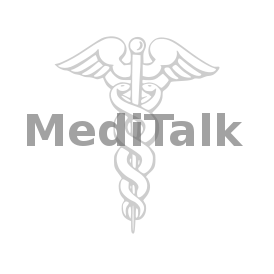
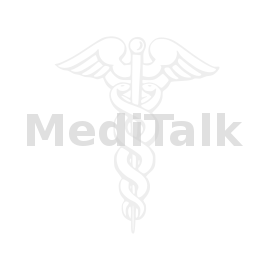
Updating header image for production demo output.
- New post layout set up to only allow for a certain number of characters.
- Border removed from images (FF and IE update)
- Header and background updated for production output.
- Deleted old files.

diff --git a/Code/Static/Styles/bar_styles.css b/Code/Static/Styles/bar_styles.css
@@ -33,10 +33,6 @@ div#navMenu {
 	overflow: hidden;
 }
 
-div#homeButton {
-	
-}
-
 p#navTitle {
 	margin: 1px 0px 0px 0px;
 }
@@ -70,6 +66,10 @@ p#uname {
 	text-align: center;
 	font-weight: bold;
 	width: 65%;
+}
+
+img {
+	border: 0px;
 }
 
 img#gear {
